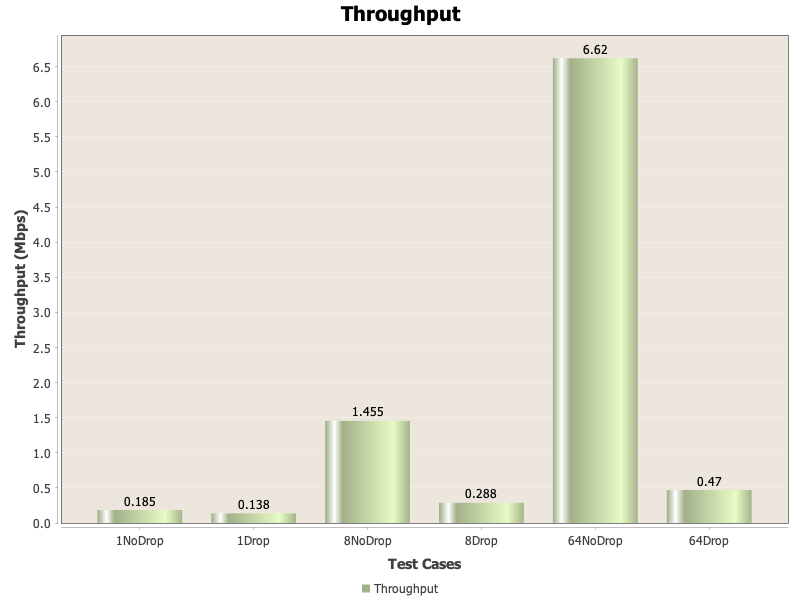
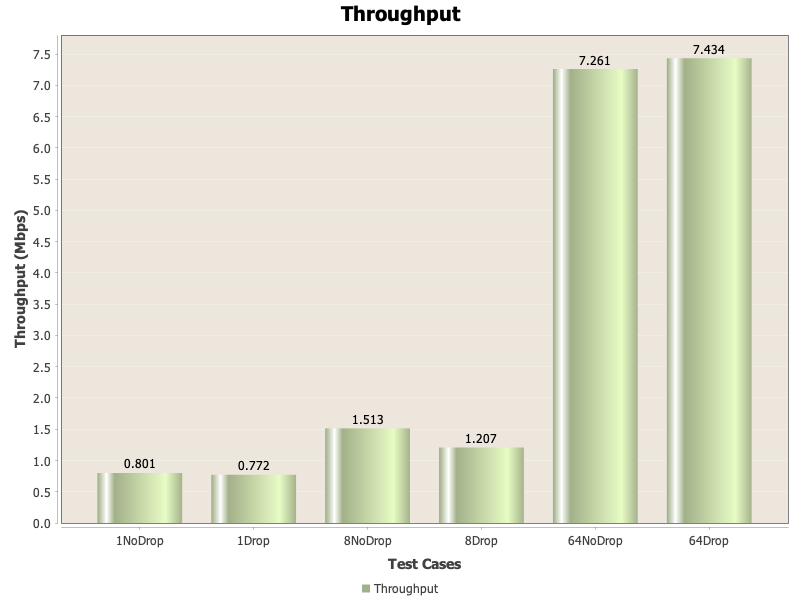
pi-rho data collected

diff --git a/src/main/java/pi-rho/htmlFiles/drop_enable_1_throughput.html b/src/main/java/pi-rho/htmlFiles/drop_enable_1_throughput.html
@@ -6,8 +6,8 @@
     </div> 
     <div style='flex: 1; padding-left: 20px; align-content:end;'> 
       <p>File Size: 1882548 bytes</p> 
-      <p>Elapsed Time: 109.522 seconds</p> 
-      <p>Throughput: 0.13751043086431722 Mbps</p> 
+      <p>Elapsed Time: 19.518 seconds</p> 
+      <p>Throughput: 0.7716101340591422 Mbps</p> 
     </div>
   </div> 
 </div> 

diff --git a/src/main/java/pi-rho/htmlFiles/drop_disable_1_throughput.html b/src/main/java/pi-rho/htmlFiles/drop_disable_1_throughput.html
@@ -6,8 +6,8 @@
     </div> 
     <div style='flex: 1; padding-left: 20px; align-content:end;'> 
       <p>File Size: 1882548 bytes</p> 
-      <p>Elapsed Time: 81.432 seconds</p> 
-      <p>Throughput: 0.18494390930686863 Mbps</p> 
+      <p>Elapsed Time: 18.813 seconds</p> 
+      <p>Throughput: 0.8005112180075562 Mbps</p> 
     </div>
   </div> 
 </div> 

diff --git a/src/main/java/pi-rho/htmlFiles/drop_enable_64_throughput.html b/src/main/java/pi-rho/htmlFiles/drop_enable_64_throughput.html
@@ -6,8 +6,8 @@
     </div> 
     <div style='flex: 1; padding-left: 20px; align-content:end;'> 
       <p>File Size: 1281499 bytes</p> 
-      <p>Elapsed Time: 21.806 seconds</p> 
-      <p>Throughput: 0.4701553883527743 Mbps</p> 
+      <p>Elapsed Time: 1.379 seconds</p> 
+      <p>Throughput: 7.4337921802114115 Mbps</p> 
     </div>
   </div> 
 </div> 

diff --git a/src/main/java/pi-rho/htmlFiles/drop_disable_8_throughput.html b/src/main/java/pi-rho/htmlFiles/drop_disable_8_throughput.html
@@ -6,8 +6,8 @@
     </div> 
     <div style='flex: 1; padding-left: 20px; align-content:end;'> 
       <p>File Size: 1187342 bytes</p> 
-      <p>Elapsed Time: 6.530 seconds</p> 
-      <p>Throughput: 1.4546181950221593 Mbps</p> 
+      <p>Elapsed Time: 6.277 seconds</p> 
+      <p>Throughput: 1.5133604766064181 Mbps</p> 
     </div>
   </div> 
 </div> 

diff --git a/src/main/java/pi-rho/htmlFiles/drop_enable_8_throughput.html b/src/main/java/pi-rho/htmlFiles/drop_enable_8_throughput.html
@@ -6,8 +6,8 @@
     </div> 
     <div style='flex: 1; padding-left: 20px; align-content:end;'> 
       <p>File Size: 1187342 bytes</p> 
-      <p>Elapsed Time: 32.981 seconds</p> 
-      <p>Throughput: 0.2880030768546127 Mbps</p> 
+      <p>Elapsed Time: 7.872 seconds</p> 
+      <p>Throughput: 1.206629938235621 Mbps</p> 
     </div>
   </div> 
 </div> 

diff --git a/src/main/java/pi-rho/htmlFiles/drop_disable_64_throughput.html b/src/main/java/pi-rho/htmlFiles/drop_disable_64_throughput.html
@@ -6,8 +6,8 @@
     </div> 
     <div style='flex: 1; padding-left: 20px; align-content:end;'> 
       <p>File Size: 1281499 bytes</p> 
-      <p>Elapsed Time: 1.549 seconds</p> 
-      <p>Throughput: 6.619907072833436 Mbps</p> 
+      <p>Elapsed Time: 1.412 seconds</p> 
+      <p>Throughput: 7.26067511950185 Mbps</p> 
     </div>
   </div> 
 </div> 

diff --git a/src/main/java/Client.java b/src/main/java/Client.java
@@ -5,8 +5,8 @@ import java.util.Random;
 import java.util.TreeMap;
 
 public class Client {
-    private static final String PROXY_HOST = "localhost";
-//        private static final String PROXY_HOST = "rho.cs.oswego.edu";
+//    private static final String PROXY_HOST = "localhost";
+        private static final String PROXY_HOST = "rho.cs.oswego.edu";
 //        private static final String PROXY_HOST = "moxie.cs.oswego.edu";
 
     private static final int PROXY_PORT = 26896;

diff --git a/src/main/java/GraphGenerator.java b/src/main/java/GraphGenerator.java
@@ -15,8 +15,8 @@ import org.jfree.data.category.DefaultCategoryDataset;
 
 public class GraphGenerator {
 
-    private static final String host_to_server = "local-local";
-//    private static final String host_to_server = "pi-rho";
+//    private static final String host_to_server = "local-local";
+    private static final String host_to_server = "pi-rho";
 //    private static final String host_to_server = "rho-moxie";
 
 
